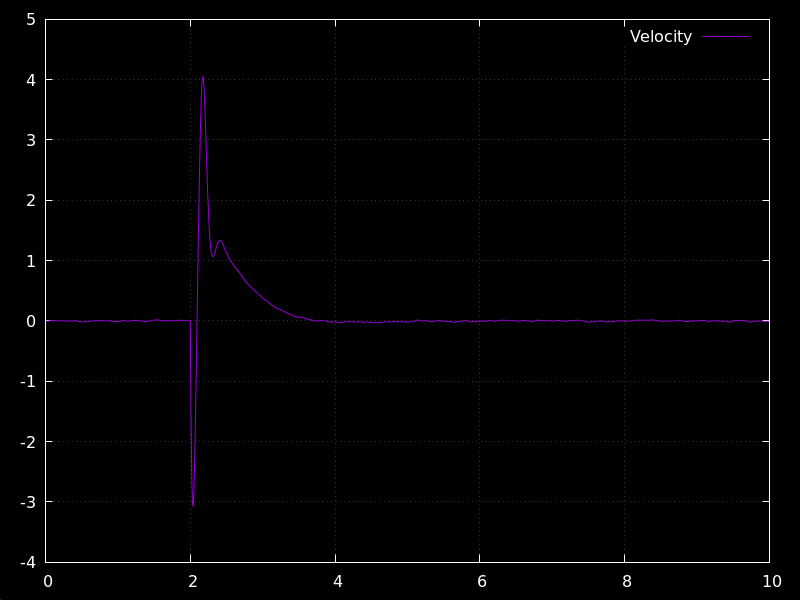
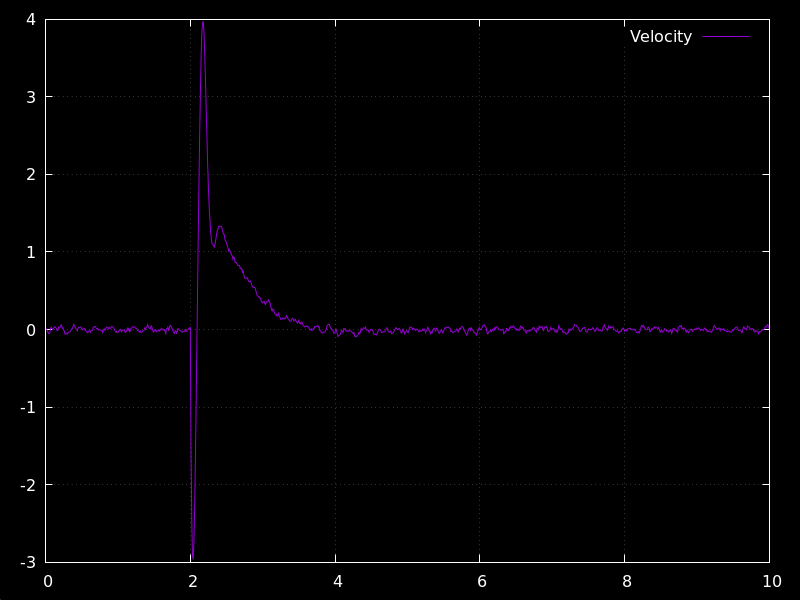
added measurement noise to sensor measurement

diff --git a/src/main.c b/src/main.c
@@ -21,26 +21,26 @@ int main(){
   }
 
   //Time elapsed variable and time step
-  double time = 0;            //Units [sec]
-  double dt = 0.01;           //Units [sec]
+  double time = 0;  //Units [sec]
+  double dt = 0.01; //Units [sec]
 
   //Write column titles
   fprintf(fpt, "Time,Pos_X,Vel_X,Angle,Force,Setpoint,ERROR\n");
 
-  vect4d_t x = {0,0,-1e-3,0};                //State Vector {x_pos, x_vel, theta, angular_vel}
-  vect4d_t x_est = {0,0,0,0};                //State Estimation Vector
-  vect4d_t next_state = {0,0,0,0};           //Next State Vector
-  vect4d_t y = {0,0,0,0};                    //Measurement Vector
-  const double *K = gain_settings(K3);      //Gain Vector
-  double u = 0;                             //Input force 
+  vect4d_t x = {0,0,-1e-3,0};          //State Vector {m, m/s, rad, rad/s}
+  vect4d_t x_est = {0,0,0,0};          //State Estimation Vector
+  vect4d_t next_state = {0,0,0,0};     //Next State Vector
+  vect4d_t y = {0,0,0,0};              //Measurement Vector
+  const double *K = gain_settings(K3); //Gain Vector
+  double u = 0;                        //Input force 
 
   //State Process Noise
   vect4d_t noise = {0,0,0,0};
-  double noise_std_dev[4] = {POS_NOISE, VEL_NOISE, ANGLE_NOISE, OMEGA_NOISE};
+  const double noise_variance[4] = {POS_NOISE, VEL_NOISE, ANGLE_NOISE, OMEGA_NOISE};
 
   //Measurement Noise
   vect4d_t measurement_noise = {0,0,0,0};
-  double sensor_noise_std_dev[4] = {POS_SENSOR_NOISE, 0, ANGLE_SENSOR_NOISE, 0};
+  const double sensor_variance[4] = {POS_SENSOR_NOISE, 0, ANGLE_SENSOR_NOISE, 0};
   
   //Initial Setpoints for each state
   vect4d_t setpoint = {0,0,0,0};
@@ -48,23 +48,25 @@ int main(){
   while(time < SIM_TIME){
 
     for(size_t i = 0; i < 4; ++i){
-      noise.arr[i] = gaussian_generator(0, noise_std_dev[i]);
-      measurement_noise.arr[i] = gaussian_generator(0, sensor_noise_std_dev[i]);
-    }       
+      noise.arr[i] = gaussian_generator(0, noise_variance[i]);
+      measurement_noise.arr[i] = gaussian_generator(0, sensor_variance[i]);
+    }
 
-    if((time >= 2) && (time < 4))setpoint.pendulum.x = 1;
+    if((time >= 2) && (time < 4))setpoint.state.x = 1;
 
     for(size_t i = 0; i < 4; ++i){
-      //Add process noise to current state
-      x.arr[i] += noise.arr[i];
-      u -= K[i]*(x.arr[i] - setpoint.arr[i]);
+      //Full-State observation assumed
+      y.arr[i] = x.arr[i] + measurement_noise.arr[i];
+      x_est.arr[i] = y.arr[i];
+
+      u -= K[i]*(x_est.arr[i] - setpoint.arr[i]);
     }
 
     rk4_step(&x, &next_state, pendulum_params, u, dt, ENABLE_DAMPING);
 
     fprintf(fpt, "%lf,%lf,%lf,%lf,%lf,%lf,%lf\n", time, 
-      x.pendulum.x, x.pendulum.x_dot, x.pendulum.theta, u, 
-      setpoint.pendulum.x, setpoint.pendulum.x - x.pendulum.x);
+      x.state.x, x.state.x_dot, x.state.theta, u, 
+      setpoint.state.x, setpoint.state.x - x.state.x);
 
     x = next_state;
     next_state = (vect4d_t){0,0,0,0};

diff --git a/core/physics.c b/core/physics.c
@@ -8,8 +8,19 @@
 - ODE Solver
 */
 
-const pendulum_params_t pendulum_params = {.G = 9.80665, .m = 10, .M = 20, .L = 0.5, .b = 2, .g = 1};
-const motor_params_t motor_params = {.k1 = 1, .k2 = 1, .R  = 1, .r  = 1};
+const pendulum_params_t pendulum_params = {
+  .G = 9.80665, 
+  .m = 10, 
+  .M = 20, 
+  .L = 0.5, 
+  .b = 2, 
+  .g = 1};
+  
+const motor_params_t motor_params = {
+  .k1 = 1, 
+  .k2 = 1, 
+  .R  = 1, 
+  .r  = 1};
 
 double gaussian_generator(double mean, double std_dev){
 
@@ -33,10 +44,10 @@ void pendulum_dynamics(vect4d_t const *curr_state, vect4d_t* next_state,
     }
 
     //pendulum state variables
-    const double x          = curr_state->pendulum.x;
-    const double x_dot      = curr_state->pendulum.x_dot;
-    const double theta      = curr_state->pendulum.theta;
-    const double theta_dot  = curr_state->pendulum.theta_dot;
+    const double x          = curr_state->state.x;
+    const double x_dot      = curr_state->state.x_dot;
+    const double theta      = curr_state->state.theta;
+    const double theta_dot  = curr_state->state.theta_dot;
 
     //pendulum params
     const double G = pendulum_params.G;

diff --git a/include/physics.h b/include/physics.h
@@ -1,5 +1,6 @@
 #pragma once
 
+#include "types.h"
 #include <math.h>
 #include <stdbool.h>
 #include <time.h>
@@ -10,36 +11,6 @@
 #ifndef M_PI
 #define M_PI 3.14159265358979323846
 #endif
-
-typedef struct{
-  const double G; //gravity     [m/s^2]
-  const double m; //ball mass   [kg]
-  const double M; //cart mass   [kg]
-  const double L; //pole length [m]
-  const double b; //linear viscous damping      [N*s/m]
-  const double g; //rotational viscous damping  [N*m*s/rad]
-}pendulum_params_t;
-
-
-typedef struct{
-  const double k1; //torque constant           [N*m/A]
-  const double k2; //back-emf constant         [V/kRPM]
-  const double R;  //motor internal resistance [Ω]
-  const double r;  //torque to force ratio
-}motor_params_t;
-
-
-typedef union{
-  double arr[4];
-
-  struct{
-    double x;         //position         [m]
-    double x_dot;     //velocity         [m/s]
-    double theta;     //pole angle       [rad]
-    double theta_dot; //angular velocity [rad/s]
-  }pendulum;
-
-}vect4d_t;
 
 
 extern const pendulum_params_t pendulum_params;

diff --git a/include/types.h b/include/types.h
@@ -1,0 +1,31 @@
+#pragma once
+
+typedef struct{
+  const double G; //gravity     [m/s^2]
+  const double m; //ball mass   [kg]
+  const double M; //cart mass   [kg]
+  const double L; //pole length [m]
+  const double b; //linear viscous damping      [N*s/m]
+  const double g; //rotational viscous damping  [N*m*s/rad]
+}pendulum_params_t;
+
+
+typedef struct{
+  const double k1; //torque constant           [N*m/A]
+  const double k2; //back-emf constant         [V/kRPM]
+  const double R;  //motor internal resistance [Ω]
+  const double r;  //torque to force ratio
+}motor_params_t;
+
+
+typedef union{
+  double arr[4];
+
+  struct{
+    double x;         //position         [m]
+    double x_dot;     //velocity         [m/s]
+    double theta;     //pole angle       [rad]
+    double theta_dot; //angular velocity [rad/s]
+  }state;
+
+}vect4d_t;

diff --git a/include/estimator.h b/include/estimator.h
@@ -1,5 +1,7 @@
 #pragma once
 
+#include "types.h"
+
 //Process Noise
 #define POS_NOISE   1e-4
 #define VEL_NOISE   1e-3
@@ -11,3 +13,7 @@
 #define ANGLE_SENSOR_NOISE 1e-3
 
 double angular_encoder_sensor(double theta_measurement);
+
+vect4d_t observation_update(vect4d_t state, vect4d_t sensor_covar);
+
+vect4d_t kalman_filter(vect4d_t state, vect4d_t process_covar, vect4d_t sensor_covar);

diff --git a/core/estimator.c b/core/estimator.c
@@ -8,4 +8,17 @@ double angular_encoder_sensor(double theta_measurement){
     return 0;
 }
 
+vect4d_t observation_update(vect4d_t state, vect4d_t sensor_covar){
+    vect4d_t output;
+    return output;
+}
+
+vect4d_t kalman_filter(vect4d_t state, vect4d_t process_covar, vect4d_t sensor_covar){
+
+    vect4d_t output;
+    
+    return output;
+}
+
+
 
